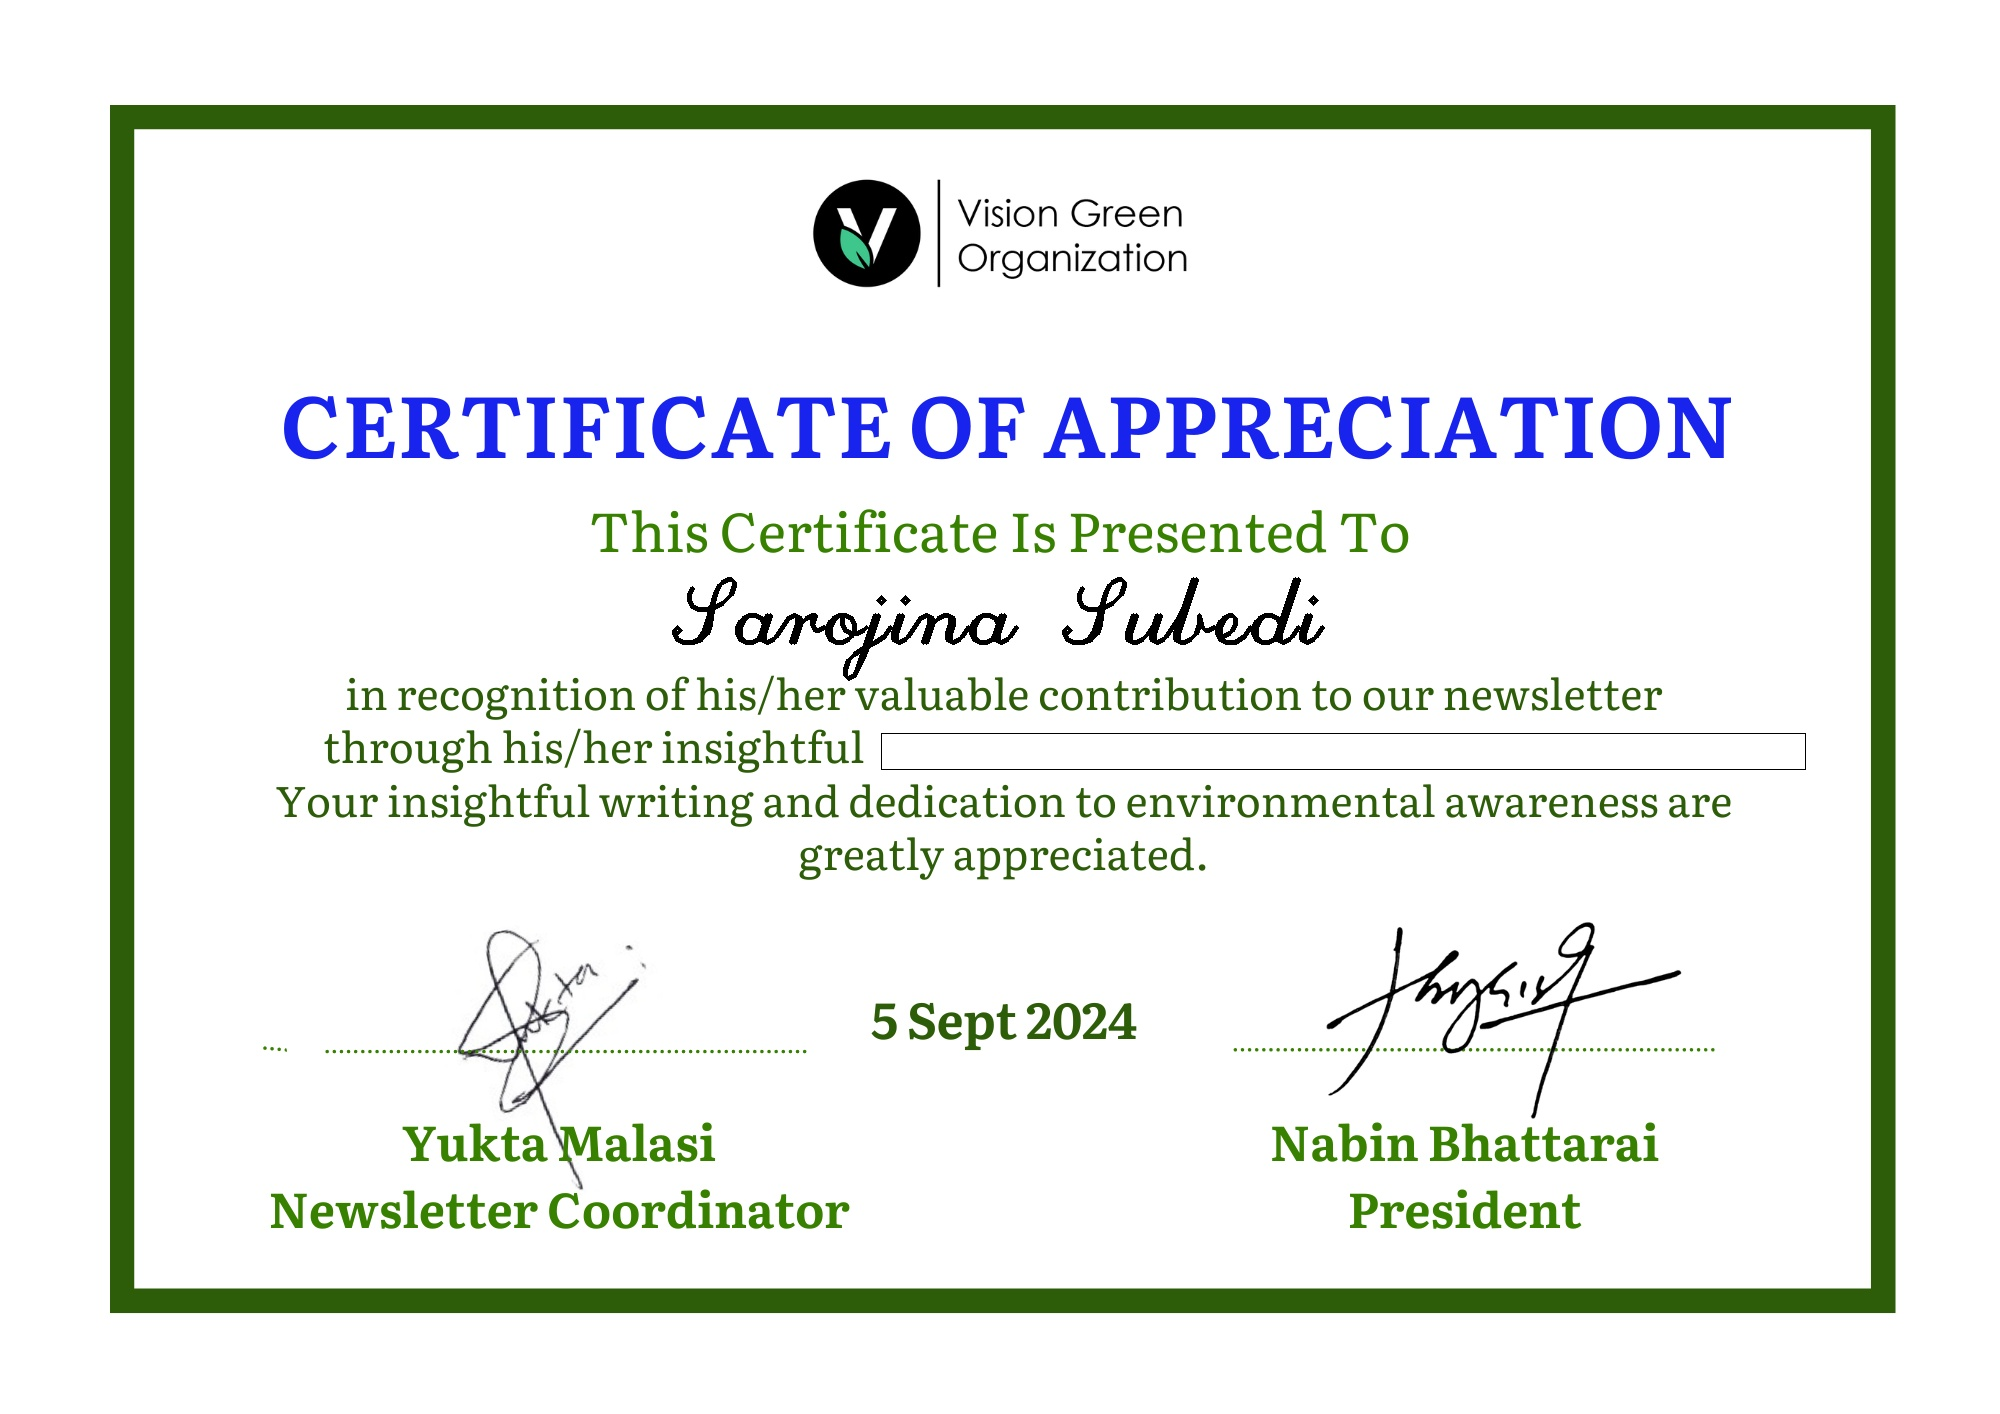
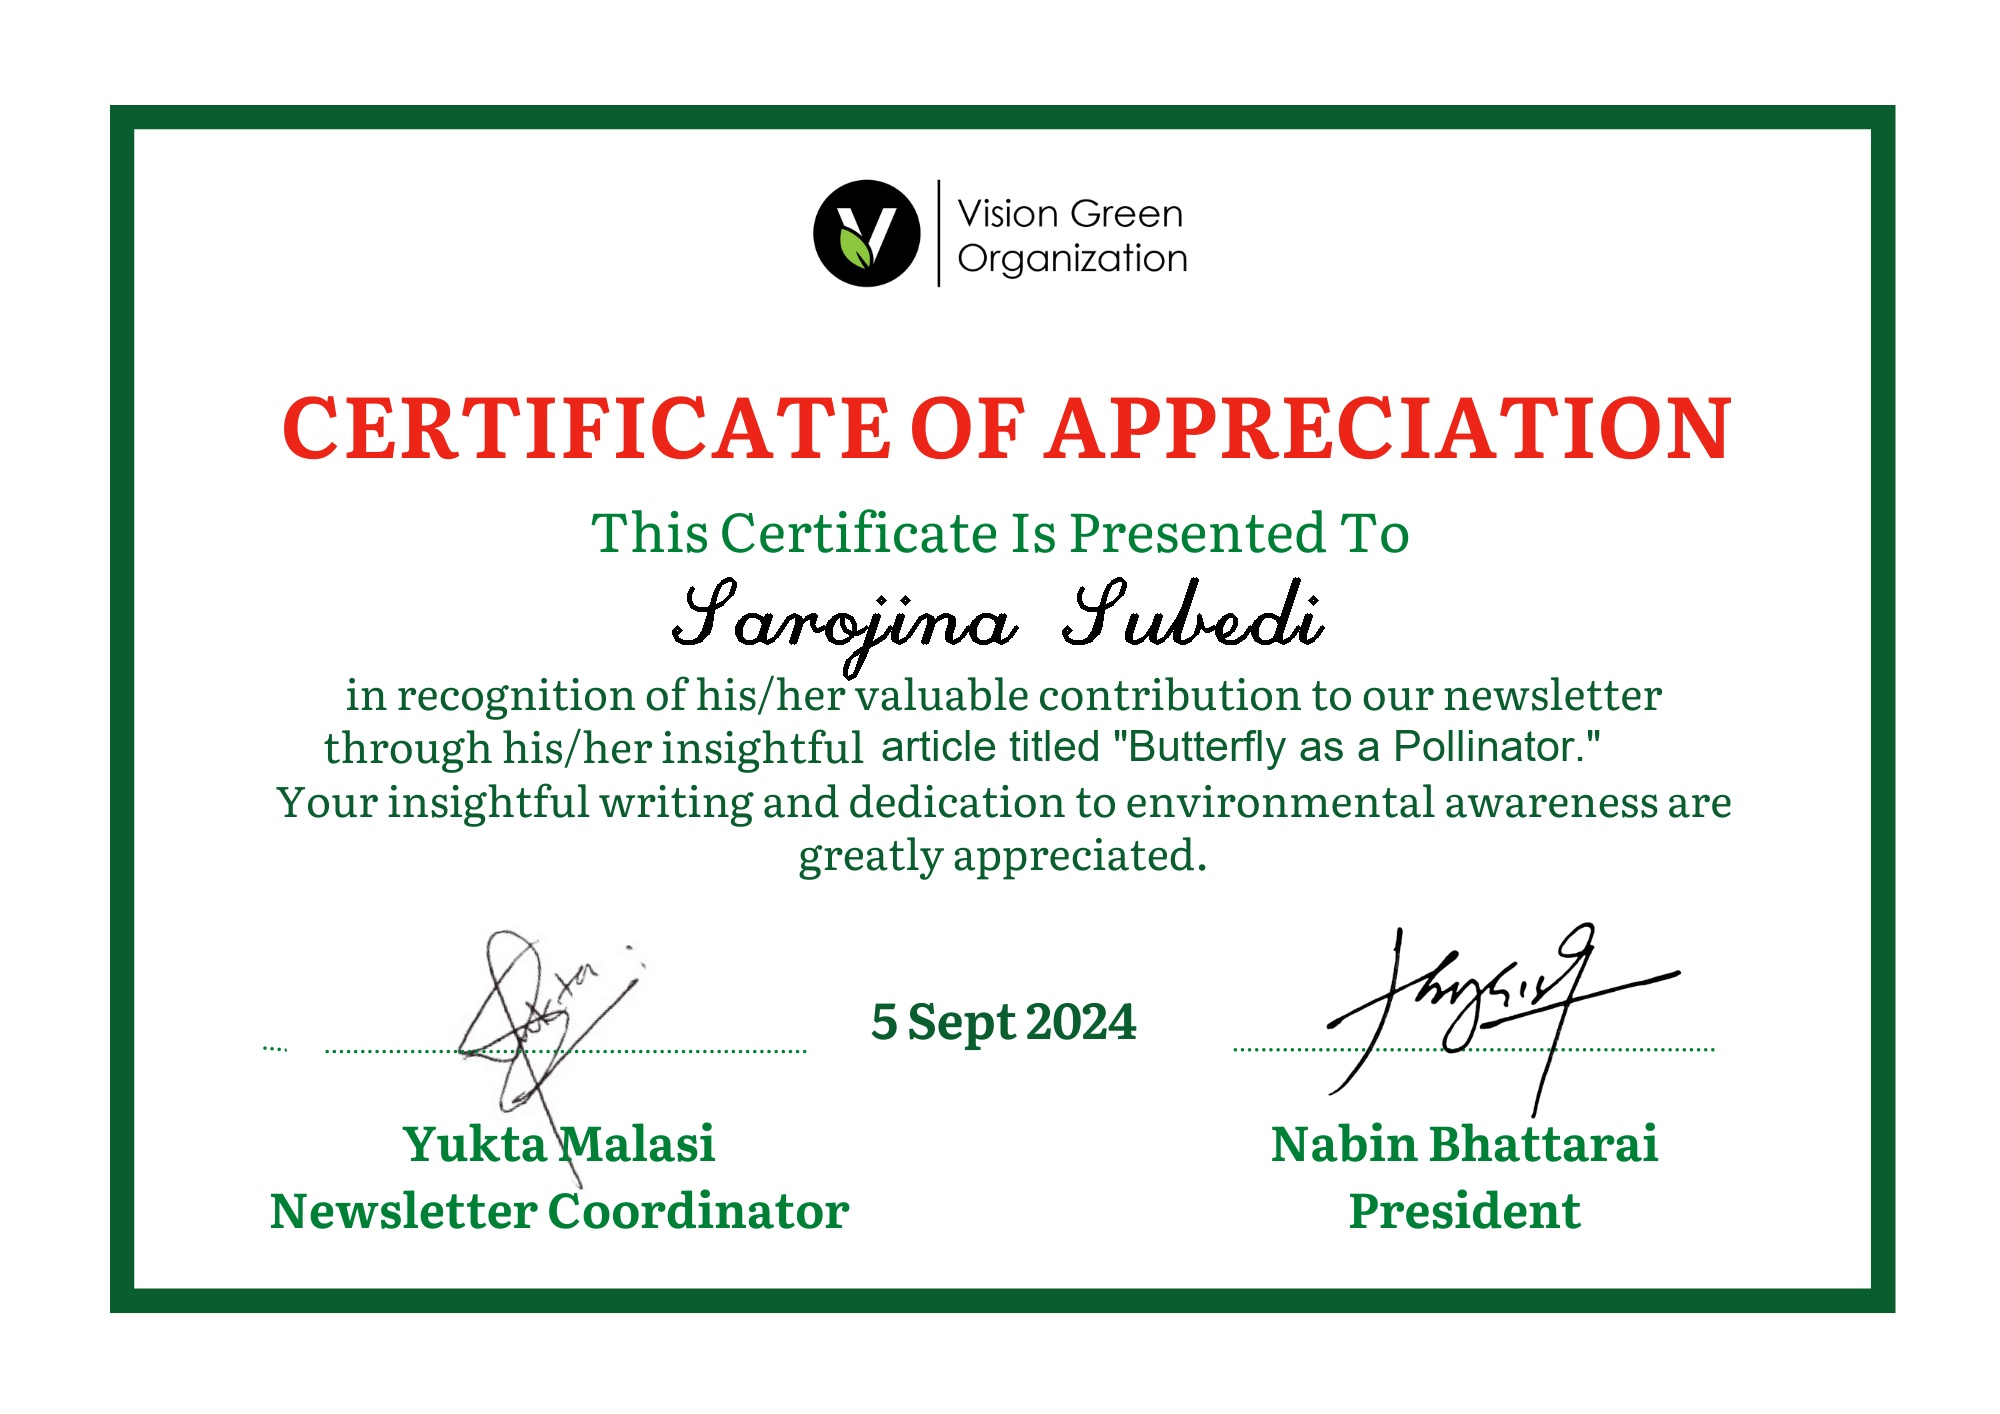
v1

diff --git a/certificate.py b/certificate.py
@@ -57,9 +57,7 @@ def annotate(name):
     # writing the description
     typee = contributions[name][0]
     title = contributions[name][1] 
-    target_width = 910
     desc = f"{typee} titled \"{title}.\""
-    # origin =(884,761)
     origin =(881,720)
     green_rgb= (10, 93, 46)
     green_hex = "#0a5d2e"
@@ -69,28 +67,16 @@ def annotate(name):
     font = ImageFont.truetype(font_path, font_size)
     img_pill = Image.fromarray(cv2.cvtColor(original, cv2.COLOR_BGR2RGB))
     draw = ImageDraw.Draw(img_pill)
-    # while draw.textlength(desc, font=font) < target_width:
-    #     font_size += 1
-    #     font = ImageFont.truetype(font_path, font_size)
-    # draw.text((881,720), desc, font=font, fill=green_rgb)
-    # original = cv2.cvtColor(np.array(img_pill), cv2.COLOR_RGB2BGR)
-    
-    
-    
-    
-    box = ((881, 733, 1805, 769))
-    draw.rectangle(box, outline="#000")
-    while (size is None or size[0] > box[2] - box[0] or size[1] > box[3] - box[1]) and font_size > 0:
+    box = ((881, 722, 1805, 762))
+    # draw.rectangle(box, outline="#000")
+    while (size is None or size[2]-size[0] > (box[2] - box[0]) or size[3]-size[1] > (box[3] - box[1])) and font_size > 0:
         font = ImageFont.truetype(font_path, font_size)
-        size = font.getsize_multiline(desc)
+        size = draw.textbbox((box[0], box[1]), desc, font=font)
         font_size -= 1
-    # draw.multiline_text((box[0], box[1]), desc, green_hex , font)
+    
+    draw.text((box[0],box[1]), desc, fill=green_rgb, font=font)       
     original = cv2.cvtColor(np.array(img_pill), cv2.COLOR_RGB2BGR)
     
-    
-    
-
-    original = cv2.cvtColor(np.array(original), cv2.COLOR_RGB2BGR)
     cv2.imwrite("Certificate_{}.jpg".format(name),original)
     
     if st.button("View certificate"):
